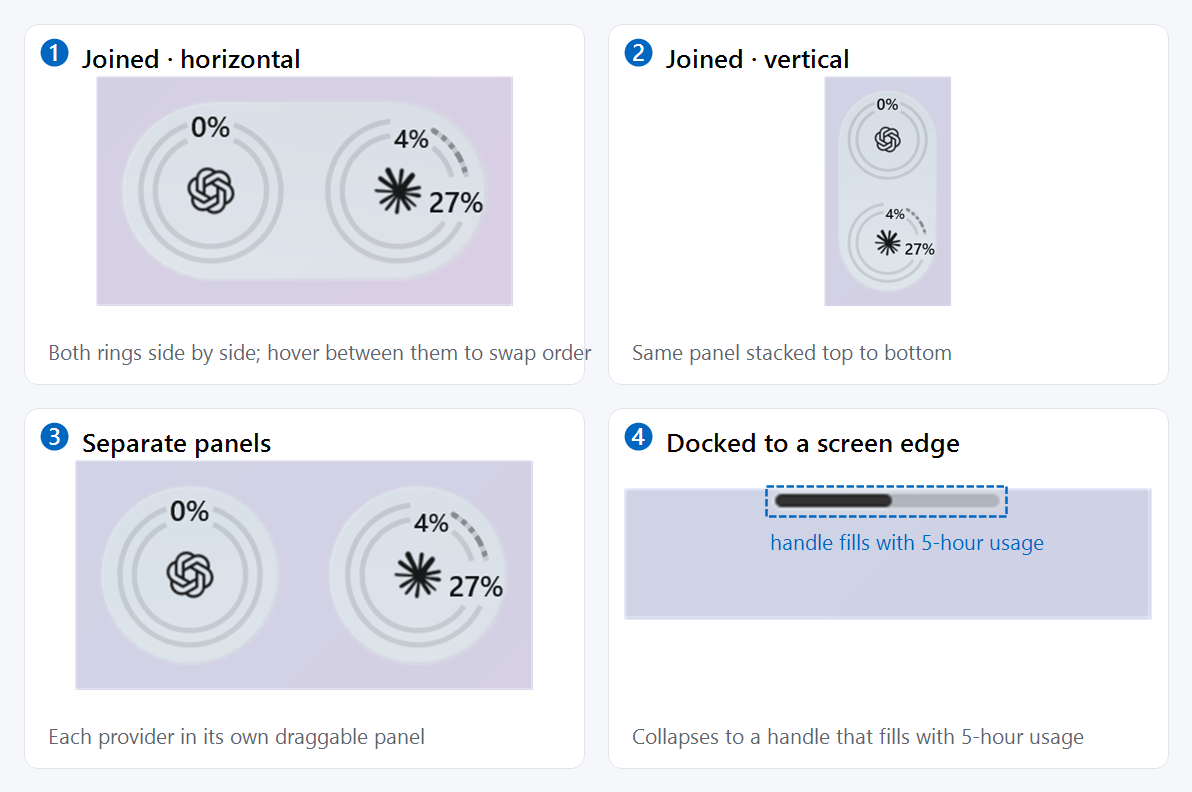
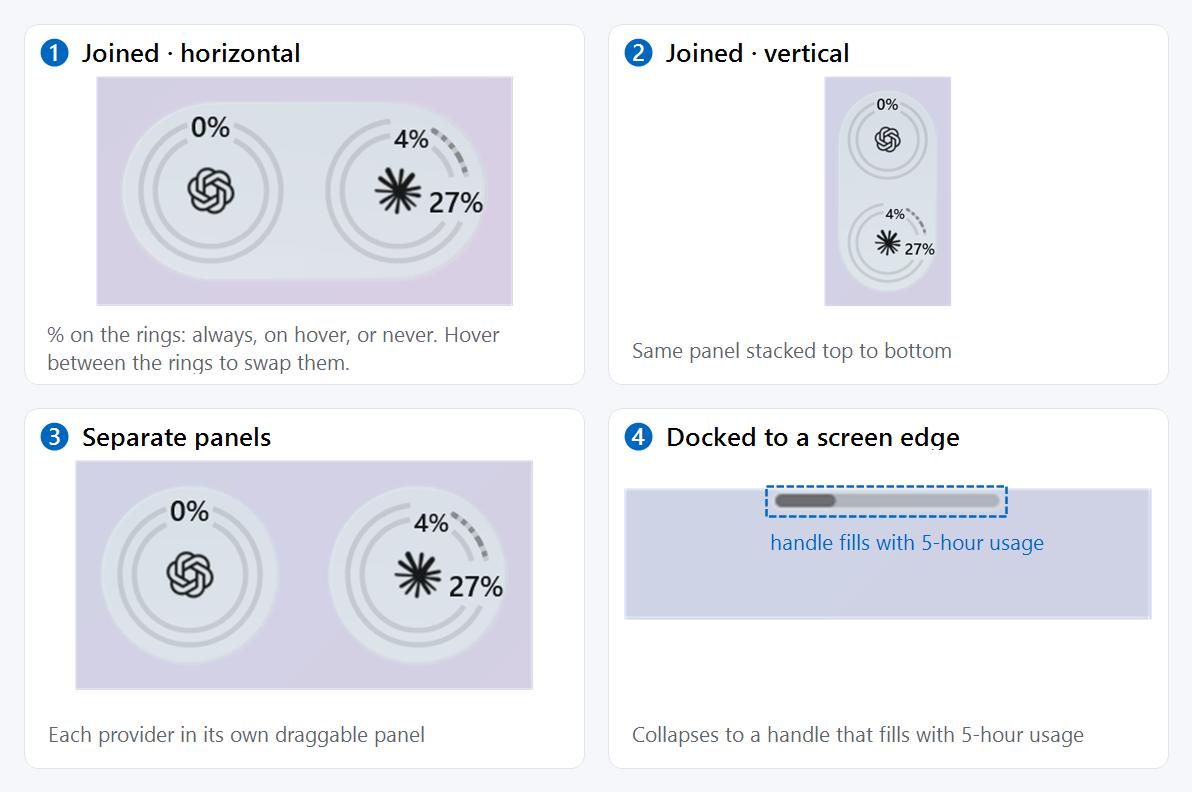
Fix screenshot alignment and note the percentage display options

diff --git a/README.md b/README.md
@@ -4,7 +4,7 @@ UsageMon is a small native Windows 11 app, built with C# and WinUI 3, that keeps
 
 ## Screenshots
 
-**Panel layouts** — joined or separate, horizontal or vertical, and docked to a screen edge.
+**Panel layouts** — joined or separate, horizontal or vertical, and docked to a screen edge. The percentage on each ring can be always shown, shown on hover, or hidden.
 
 ![Panel layouts](docs/panel-layouts.png)
 
